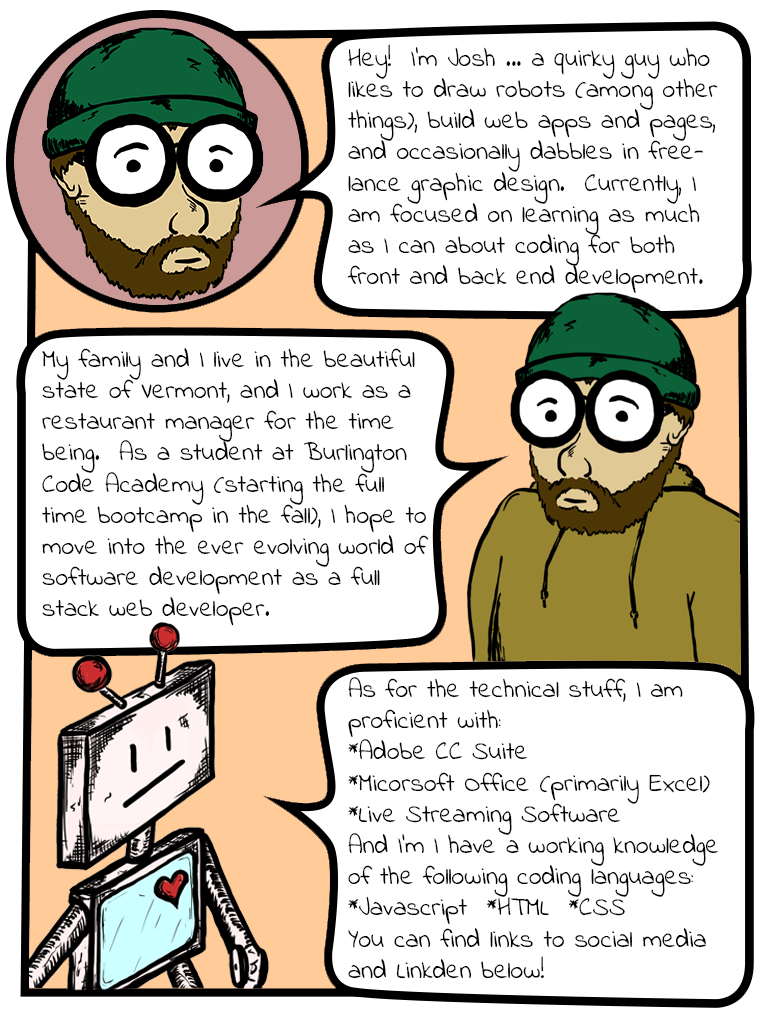
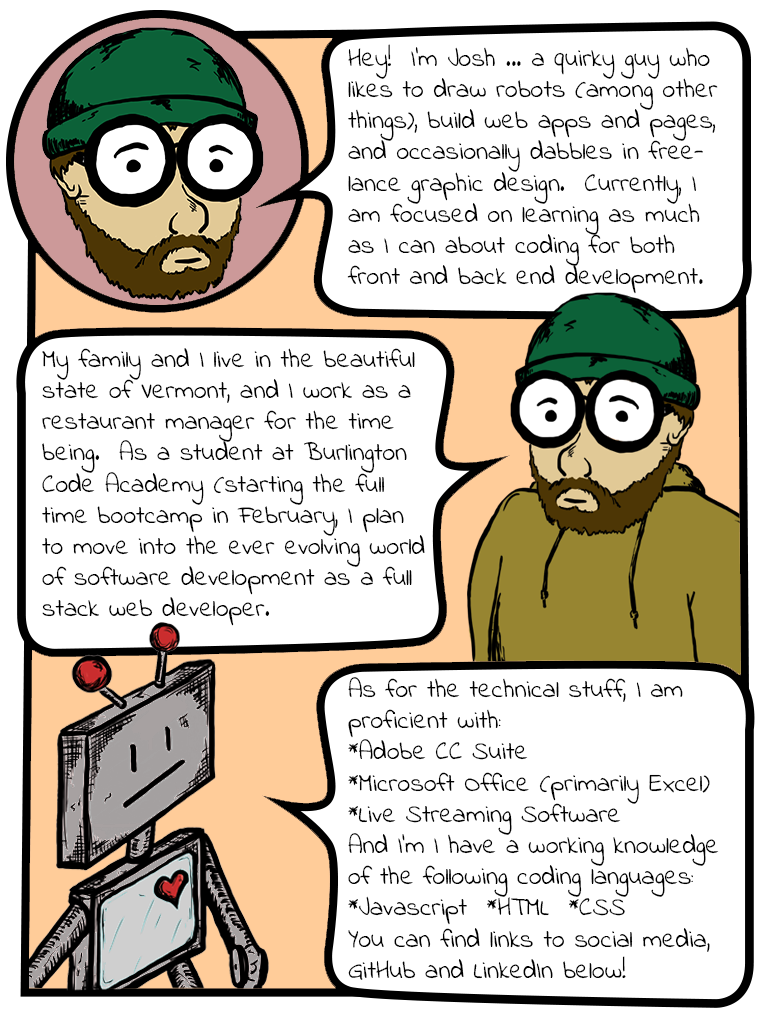
fixed some scaling issues for mobile in landscape, fixed some typos

diff --git a/otherstyles.css b/otherstyles.css
@@ -1,6 +1,6 @@
 @import url('https://fonts.googleapis.com/css?family=Barrio&display=swap');
 
-@media (min-width: 480px) {
+@media (min-width: 769px) {
 html {
     background: url(images/Background.png) no-repeat center center fixed; 
     -webkit-background-size: cover;
@@ -29,7 +29,7 @@ body {
     justify-content: space-between;
     align-content: center;
     padding: 0vw 5vw 0vw 5vw;
-    width: 90vw;
+    width: 88vw;
     height: 100%;
     margin-bottom: 0px;
 }
@@ -42,6 +42,12 @@ body {
     align-content: center;
     justify-content: space-between;
     border-right: 10px dashed #666666;
+}
+
+#mobileRobot {
+    display: flex;
+    justify-content: center;
+    align-content: center;
 }
 
 #mobileHead {
@@ -78,7 +84,7 @@ a {
 }
 
 #aboutComic {
-    margin-right: 8vw;
+    margin-right: 5vw;
 }
 
 #aboutComicMobile {
@@ -100,7 +106,7 @@ a {
     font-size: 3em;
 }
 }
-@media (max-width: 480px) {
+@media (max-width: 768px) {
     html {
         background: url(images/Background-Mobile.png) no-repeat center center fixed; 
         -webkit-background-size: cover;
@@ -150,6 +156,14 @@ a {
         margin: 10px auto 10px auto;
     }
 
+    .link:hover {
+        border: 4px solid #cc3333;
+        background-color: #999999;
+        text-shadow: 2px 2px white;
+        padding: 10px;
+        box-shadow: 5px 5px 2px #333333;
+    }
+
     a {
         align-self: center;
         color: black;
@@ -179,5 +193,20 @@ a {
 
     #comicMobile {
         width: 380px;
+    }
+
+    #title {
+        font-family: Barrio;
+        font-size: 2.5em;
+        z-index: 1;
+        text-shadow: 2px 2px 2px white;
+        text-align: center;
+    }
+
+    #construction {
+        display: flex;
+        flex-direction: column;
+        justify-content: center;
+        align-content: center;
     }
 }

diff --git a/bio.html b/bio.html
@@ -20,19 +20,22 @@
                     <a href='./index.html'>Home</a>
                 </div>
                 <div id='artLink' class='link'>
-                    <a href='./art.html'>Art Portfolio</a>
+                    <a href='./construction.html'>Art Portfolio</a>
                 </div>
                 <div id='webLink' class='link'>
-                    <a href='./web.html'>Web - Design & Code</a>
+                    <a href='./construction.html'>Web - Design & Code</a>
                 </div>
                 <div id='blogLink' class='link'>
-                    <a href='./blog.html'>Blog</a>
+                    <a href='./construction.html'>Blog</a>
                 </div>
                 <div>
                     <p class='side'>other Links</p>
                 </div>
-                <div id='linkden' class='link'>
-                    <a href='./construction.html'>Linkden</a>
+                <div id='linkedIn' class='link'>
+                    <a href='./construction.html'>LinkedIn</a>
+                </div>
+                <div id='gitHub' class='link'>
+                    <a href='https://github.com/JoshLDowns?tab=repositories'>Git Hub</a>
                 </div>
                 <div id='facebook' class='link'>
                     <a href='https://www.facebook.com/UltraDowny'>Facebook</a>

diff --git a/style.css b/style.css
@@ -1,6 +1,6 @@
 @import url('https://fonts.googleapis.com/css?family=Barrio&display=swap');
 
-@media (min-width: 480px) {
+@media (min-width: 769px) {
 html {
     background: url(images/Background.png) no-repeat center center fixed; 
     -webkit-background-size: cover;
@@ -117,7 +117,7 @@ a {
 
 }
 
-@media (max-width: 480px) {
+@media (max-width: 768px) {
 
     html {
         background: url(images/Background-Mobile.png) no-repeat center center fixed; 
@@ -130,7 +130,7 @@ a {
     }
 
     #header {
-        font-size: 1.5em;
+        font-size: 2.3em;
         text-align: center;
         text-shadow: 2px 2px 2px white;
     }
@@ -177,6 +177,14 @@ a {
         border: 4px solid black;
         background-color: white;
         margin-top: 3vh;
+    }
+
+    .link:hover {
+        border: 4px solid #cc3333;
+        background-color: #999999;
+        text-shadow: 2px 2px white;
+        padding: 10px;
+        box-shadow: 5px 5px 2px #333333;
     }
 
     #links {

diff --git a/index.html b/index.html
@@ -24,13 +24,13 @@
                 <a href='./bio.html'>About Me</a>
             </div>
             <div id='artLink' class='link'>
-                <a href='./art.html'>Art Portfolio</a>
+                <a href='./construction.html'>Art Portfolio</a>
             </div>
             <div id='webLink' class='link'>
-                <a href='./web.html'>Web - Design & Code</a>
+                <a href='./construction.html'>Web - Design & Code</a>
             </div>
             <div id='blogLink' class='link'>
-                <a href='./blog.html'>Blog</a>
+                <a href='./construction.html'>Blog</a>
             </div>
         </div>
         <div id='mobileRobot'>
